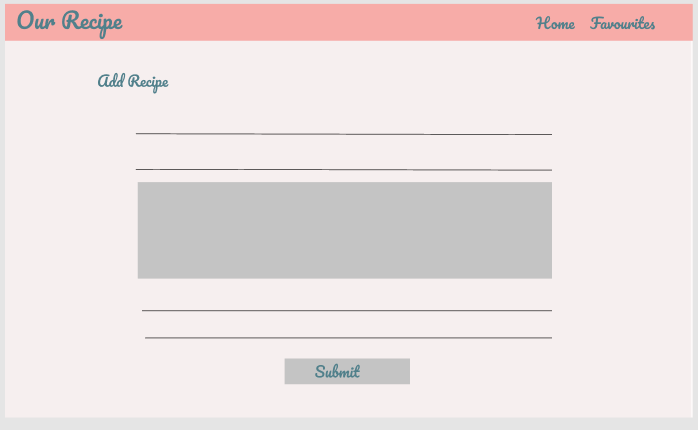
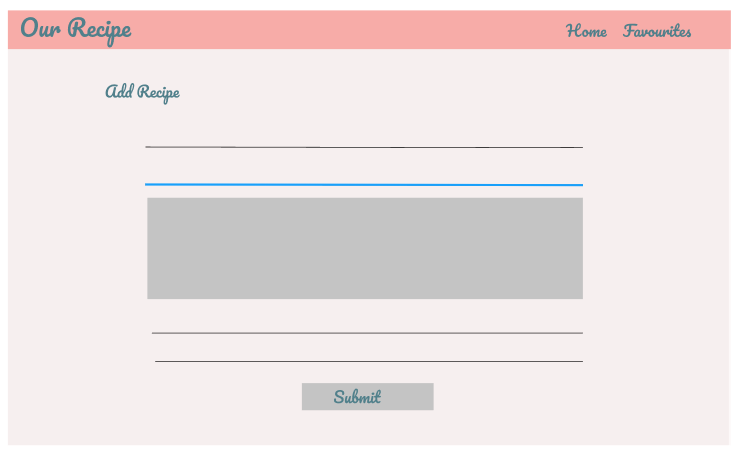
Updated new mock up photos and added Credits section on README

diff --git a/README.md b/README.md
@@ -330,5 +330,37 @@ $ git push heroku master
 7. Selected "Master" as branch.
 8. Wait for Heroku to finish and then click "Open app".
 
+[**back to top**](#table-of-contents)
+
+## Credits
+
+**Fontawesome**
+- Icons used for social links. 
+
+**Unsplash**
+- Photo by <a href="https://unsplash.com/@brookelark?utm_source=unsplash&amp;utm_medium=referral&amp;utm_content=creditCopyText">Brooke Lark</a> on <a href="https://unsplash.com/@brookelark?utm_source=unsplash&amp;utm_medium=referral&amp;utm_content=creditCopyText">Unsplash</a>
+
+**Stack Overflow**
+- For fixes and references that helped me create this website.
+
+**Photopea**
+- Used to edit images found through this website.
+
+**W3schools**
+- Used for references and as a refresher.
+
+**Code Institute Mini Task Manager**
+- Used as a reference and guide.
+
+**Mentor - Femi Medale**
+- For helping me with my search function and over all design of my website.
+
+### Special mentions:
+
+- My team of testers which include Estefi, Hines , Craig and Keitel who is always there to help me test my projects and help spot erros and bugs.
+
+### Disclaimer: 
+
+This entire website is used for educational purpose only.
 
 [**back to top**](#table-of-contents)
